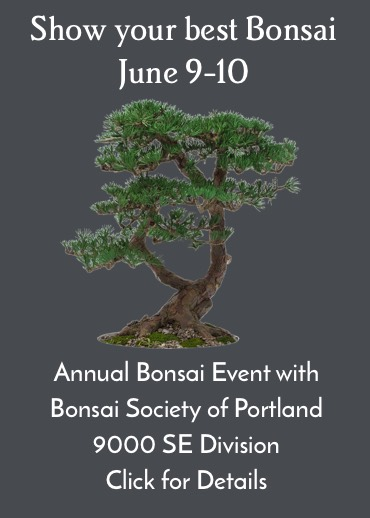
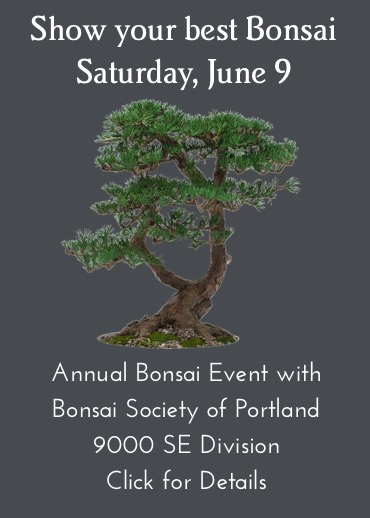
bonsai show dates

diff --git a/pages/events/yearly-events.htm b/pages/events/yearly-events.htm
@@ -96,11 +96,11 @@ is_hidden = 0
                             </ul>
                         </blockquote>
                     </div>
-                </div><!--                 <p>See the <a href="bonsai_event.shtml">Bonsai Event Page</a> for images from previous years and for all event details.</p> -->
+                </div>
 
-                <p>Deliver your tree to Portland Nursery at 9000 SE Division between 8:00-9:00am on the day of the show.</p>
+                 <p>Deliver your tree to Portland Nursery at 9000 SE Division between 8:00-9:00am on the day of the show.</p>
 
-                <h4>9000 SE DIVISION &bull; Saturday - Sunday &bull; June 9 - 10 &bull; 10:00-3:00pm</h4>
+                <h4>9000 SE DIVISION &bull; Saturday &bull; June 9 &bull; 10:00-3:00pm</h4>
 
                 <p><a href="https://portlandnursery.wufoo.com/forms/r7a5k7/" onclick="window.open(this.href,  null, 'height=1802, width=680, toolbar=0, location=0, status=1, scrollbars=1, resizable=1'); return false">Click to fill in Entry Form to Bonsai Event</a></p>
                 <hr>

diff --git a/pages/events/current-classes.htm b/pages/events/current-classes.htm
@@ -139,7 +139,7 @@ The Gardening Goddess Jolie Donohue www.jolieanndonohue.com  will help you trans
 
                 <p>Deliver your tree to Portland Nursery at 9000 SE Division between 8:00-9:00am on the day of the show.</p>
 
-                <h4>9000 SE DIVISION &bull; Saturday - Sunday &bull; June 9 - 10 &bull; 10:00-3:00pm</h4>
+                <h4>9000 SE DIVISION &bull; Saturday &bull; June 9 &bull; 10:00-3:00pm</h4>
 
                 <p><a href="https://portlandnursery.wufoo.com/forms/r7a5k7/" onclick="window.open(this.href,  null, 'height=1802, width=680, toolbar=0, location=0, status=1, scrollbars=1, resizable=1'); return false">Click to fill in Entry Form to Bonsai Event</a></p>
 
